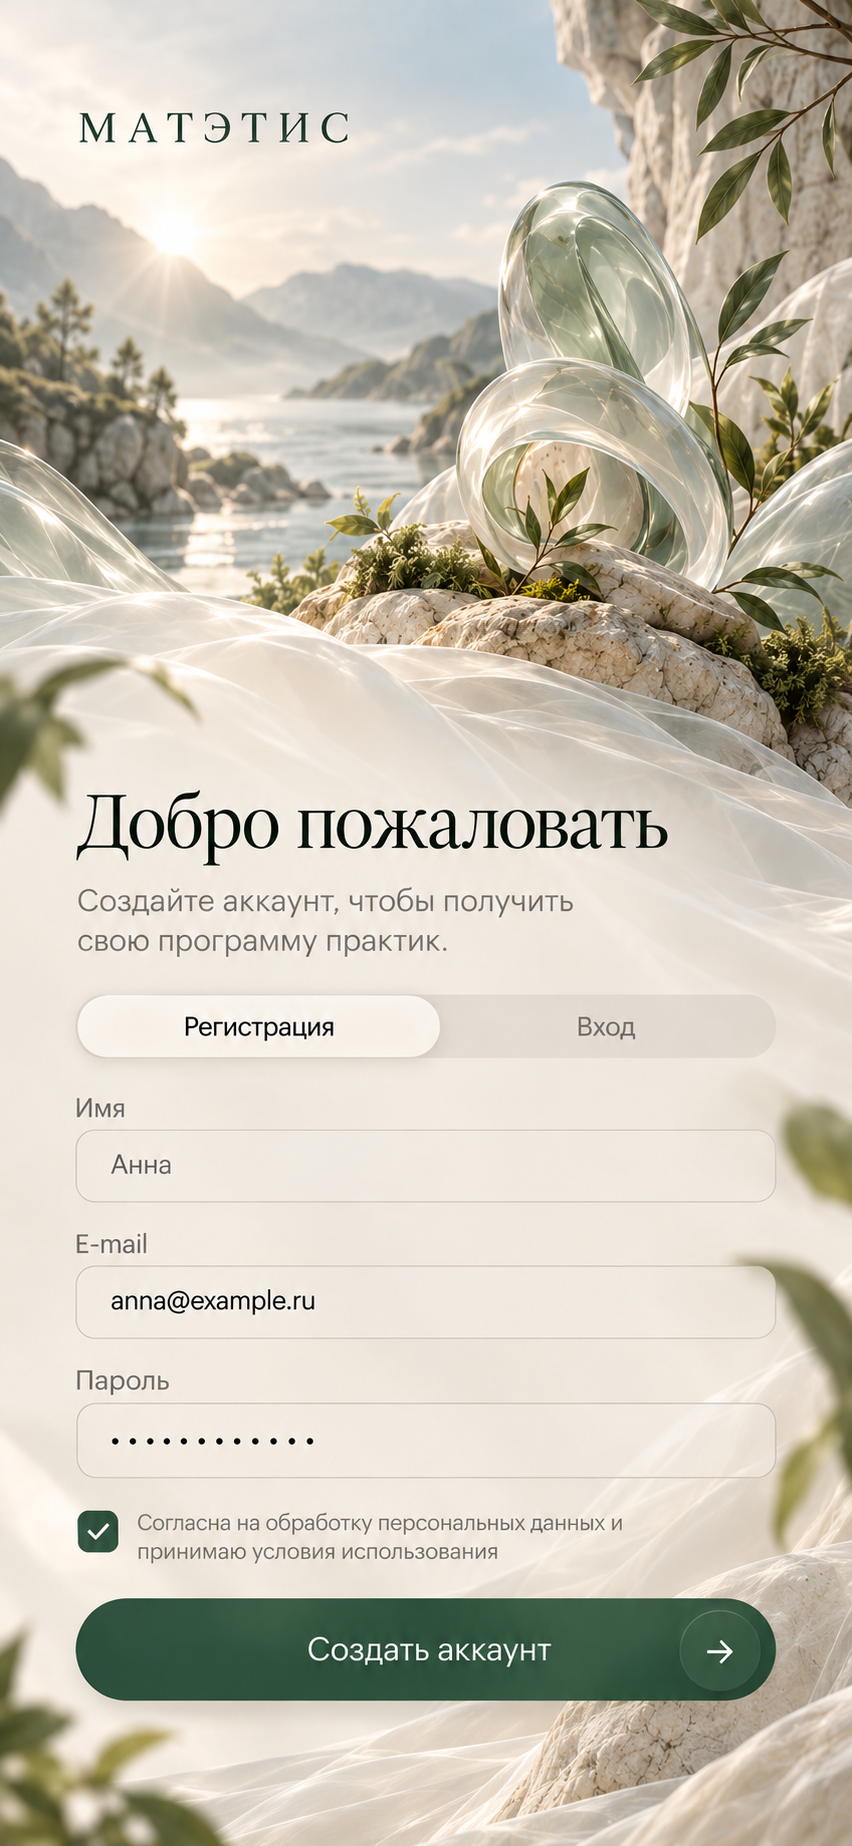
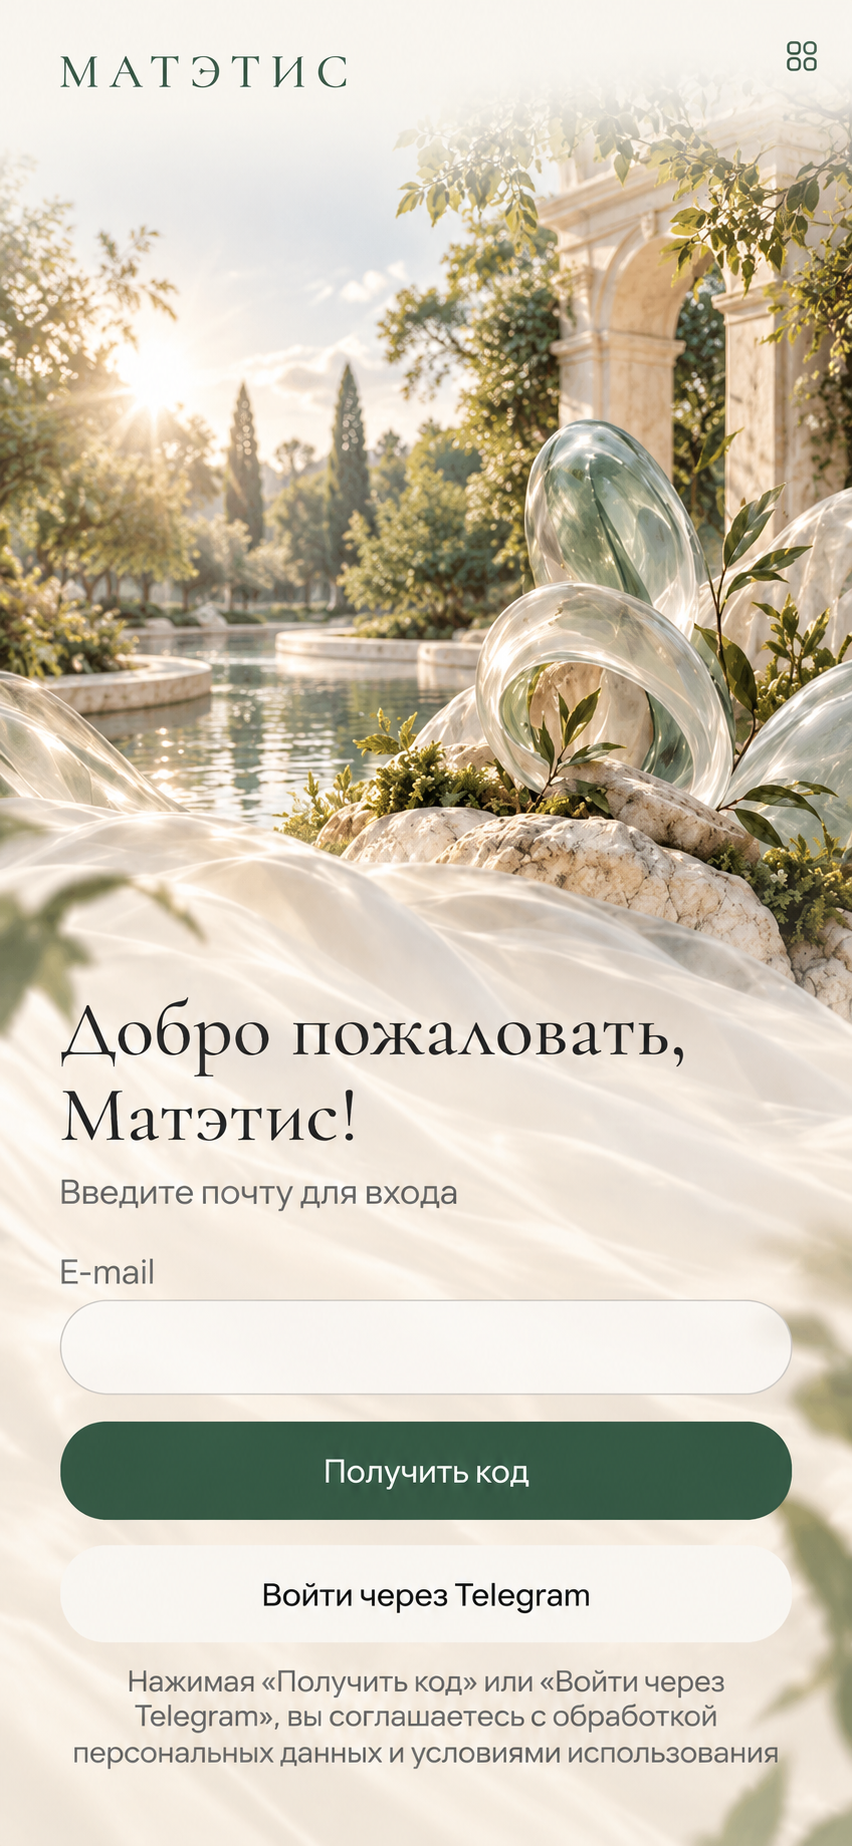
Новые фоны: вход, имя, дата рождения, «Срок подписки истёк»; иконка Telegram как в макете.
- Шаги «Имя» и «Дата рождения» — картинка на весь экран, текст в светлой середине, как в макетах.
- У даты рождения видна подпись «Дата рождения».
- Telegram — белый самолётик на синем круге, как Viber.

diff --git a/src/widgets/screen-layout/ui/screen-layout.tsx b/src/widgets/screen-layout/ui/screen-layout.tsx
@@ -17,12 +17,14 @@ export type ScreenBackground =
   | "02_3_onboard"
   | "02_4_onboard"
   | "03_1_test"
-  | "03_4_test"
+  | "03_name"
+  | "03_birth"
   | "03_result"
   | "04_earth_01_program"
   | "04_earth_02_navigator"
   | "04_earth_03_lizard"
   | "04_earth_04_practice"
+  | "04_expired"
   | "06_profile";
 
 /**
@@ -30,9 +32,17 @@ export type ScreenBackground =
  * верх заголовка. Выше этой точки — пейзаж, ниже — светлая часть, на которой лежит текст.
  */
 const heroTextLine: Partial<Record<ScreenBackground, number>> = {
-  "01_reg": 0.9,
+  "01_reg": 1.15,
   "02_1_onboard": 1.5,
-  "03_4_test": 1.2,
+};
+
+/**
+ * Экраны fullImage: на какой высоте картинки (в ширинах экрана) начинается текст — строка «Шаг N из M».
+ * Выше — арка, ниже текста картинка продолжается до кнопок.
+ */
+const fullImageTextTop: Partial<Record<ScreenBackground, number>> = {
+  "03_name": 0.92,
+  "03_birth": 0.79,
 };
 
 /**
@@ -80,6 +90,11 @@ type ScreenLayoutProps = {
   centered?: boolean;
   /** Шире поля по бокам: по краям картинки графика (листья), на ней текст плохо читается. */
   narrow?: boolean;
+  /**
+   * Картинка на весь экран (hero), как в макетах шагов «Имя» и «Дата рождения»: текст — в светлой середине
+   * картинки, кнопки — внизу поверх неё. Без fullImage картинка только над текстом.
+   */
+  fullImage?: boolean;
   /** Плотнее: подзаголовок 15 px и меньше промежутки. Для экранов с длинной формой. */
   compact?: boolean;
   /** Правая часть строки с логотипом: например, «Пропустить». */
@@ -164,6 +179,7 @@ export function ScreenLayout({
   compact = false,
   centered = false,
   narrow = false,
+  fullImage = false,
   headerAction,
   haze = false,
   textGlow = false,
@@ -209,7 +225,25 @@ export function ScreenLayout({
         />
       )}
 
-      {variant === "hero" ? (
+      {variant === "hero" && fullImage ? (
+        <>
+          {background && (
+            <div
+              aria-hidden
+              className="pointer-events-none fixed inset-y-0 left-1/2 -z-10 w-full max-w-[440px] -translate-x-1/2 bg-background bg-cover bg-top"
+              style={{ backgroundImage: [topFade(110), imageUrl(background)].join(", ") }}
+            />
+          )}
+          {header}
+          {/* Отступ до текста: верх текста ложится на ту же точку картинки, что в макете. */}
+          <div
+            aria-hidden
+            style={{
+              height: `max(24px, calc(${screenWidth} * ${(background && fullImageTextTop[background]) ?? 0.8} - var(--safe-top) - var(--header-top) - var(--header-height)))`,
+            }}
+          />
+        </>
+      ) : variant === "hero" ? (
         // Верхняя часть растягивается и опускает текст к низу экрана.
         // Картинка привязана к заголовку: над ним — пейзаж, под ним — светлая часть.
         <div className="relative flex flex-1 flex-col">
@@ -253,7 +287,7 @@ export function ScreenLayout({
           "flex flex-col px-(--screen-gutter)",
           // Отступ под нижним меню добавляет раскладка вкладок, здесь — только 24 px.
           variant === "hero" || actions ? "pb-[calc(var(--safe-bottom)+var(--action-bottom))]" : "pb-6",
-          variant === "page" && "flex-1",
+          (variant === "page" || fullImage) && "flex-1",
         )}
       >
         <div className={cn("relative", centered && "text-center")}>
@@ -322,7 +356,7 @@ export function ScreenLayout({
         {afterHaze && <div className={cn("flex flex-col", compact ? "mt-4 gap-4" : "mt-6 gap-6")}>{afterHaze}</div>}
 
         {(actions || steps) && (
-          <div className={cn("flex flex-col gap-6", compact ? "pt-4" : "pt-6", variant === "page" && "mt-auto")}>
+          <div className={cn("flex flex-col gap-6", compact ? "pt-4" : "pt-6", (variant === "page" || fullImage) && "mt-auto")}>
             {steps && <StepDots count={steps.count} current={steps.current} />}
             {actions && <div className="flex gap-3">{actions}</div>}
           </div>

diff --git a/src/features/take-type-test/ui/type-test-flow.tsx b/src/features/take-type-test/ui/type-test-flow.tsx
@@ -178,7 +178,8 @@ export function TypeTestFlow({ test }: { test: TypeTest }) {
     return (
       <ScreenLayout
         variant="hero"
-        background="03_4_test"
+        background="03_name"
+        fullImage
         beforeTitle={<StepProgress current={step + 1} total={totalSteps} />}
         title="Как вас зовут?"
         actions={
@@ -207,7 +208,8 @@ export function TypeTestFlow({ test }: { test: TypeTest }) {
   return (
     <ScreenLayout
       variant="hero"
-      background="03_4_test"
+      background="03_birth"
+      fullImage
       beforeTitle={<StepProgress current={totalSteps} total={totalSteps} />}
       title="Укажите вашу дату рождения"
       actions={
@@ -220,30 +222,35 @@ export function TypeTestFlow({ test }: { test: TypeTest }) {
       }
     >
       {/* Календарь телефона. Пустое поле на iPhone ничего не показывает, поэтому подсказку рисуем сами. */}
-      <div className="relative">
-        <Input
-          type="date"
-          aria-label="Дата рождения"
-          min="1900-01-01"
-          max={today}
-          value={birthDate}
-          onChange={(event) => {
-            setError(null);
-            setBirthDate(event.target.value);
-          }}
-          className={cn(
-            "peer h-(--field-height) appearance-none rounded-2xl border-input bg-background/70 px-4 text-left type-body backdrop-blur-sm md:text-[17px]",
-            !birthDate && "text-transparent focus:text-foreground",
+      <div className="grid gap-1">
+        <label htmlFor="birth-date" className="type-secondary leading-tight text-muted-foreground">
+          Дата рождения
+        </label>
+        <div className="relative">
+          <Input
+            id="birth-date"
+            type="date"
+            min="1900-01-01"
+            max={today}
+            value={birthDate}
+            onChange={(event) => {
+              setError(null);
+              setBirthDate(event.target.value);
+            }}
+            className={cn(
+              "peer h-(--field-height) appearance-none rounded-2xl border-input bg-background/70 px-4 text-left type-body backdrop-blur-sm md:text-[17px]",
+              !birthDate && "text-transparent focus:text-foreground",
+            )}
+          />
+          {!birthDate && (
+            <span
+              aria-hidden
+              className="pointer-events-none absolute inset-y-0 left-4 flex items-center type-body text-muted-foreground/70 peer-focus:hidden"
+            >
+              ДД.ММ.ГГГГ
+            </span>
           )}
-        />
-        {!birthDate && (
-          <span
-            aria-hidden
-            className="pointer-events-none absolute inset-y-0 left-4 flex items-center type-body text-muted-foreground/70 peer-focus:hidden"
-          >
-            ДД.ММ.ГГГГ
-          </span>
-        )}
+        </div>
       </div>
       {error && (
         <p role="alert" className="-mt-3 type-secondary text-destructive">

diff --git a/src/features/contact-admin/ui/messenger-icons.tsx b/src/features/contact-admin/ui/messenger-icons.tsx
@@ -1,9 +1,11 @@
 // Знаки Telegram и Viber из набора Simple Icons (лицензия CC0). В Lucide знаков брендов нет.
+// Рисуются белым поверх цветного круга.
 
 export function TelegramIcon({ className }: { className?: string }) {
   return (
     <svg viewBox="0 0 24 24" aria-hidden className={className} fill="currentColor">
-      <path d="M11.944 0A12 12 0 0 0 0 12a12 12 0 0 0 12 12 12 12 0 0 0 12-12A12 12 0 0 0 12 0a12 12 0 0 0-.056 0zm4.962 7.224c.1-.002.321.023.465.14a.506.506 0 0 1 .171.325c.016.093.036.306.02.472-.18 1.898-.962 6.502-1.36 8.627-.168.9-.499 1.201-.82 1.23-.696.065-1.225-.46-1.9-.902-1.056-.693-1.653-1.124-2.678-1.8-1.185-.78-.417-1.21.258-1.91.177-.184 3.247-2.977 3.307-3.23.007-.032.014-.15-.056-.212s-.174-.041-.249-.024c-.106.024-1.793 1.14-5.061 3.345-.48.33-.913.49-1.302.48-.428-.008-1.252-.241-1.865-.44-.752-.245-1.349-.374-1.297-.789.027-.216.325-.437.893-.663 3.498-1.524 5.83-2.529 6.998-3.014 3.332-1.386 4.025-1.627 4.476-1.635z" />
+      {/* Только самолётик: круг под ним рисует кнопка, как у Viber. */}
+      <path d="M16.906 7.224c.1-.002.321.023.465.14a.506.506 0 0 1 .171.325c.016.093.036.306.02.472-.18 1.898-.962 6.502-1.36 8.627-.168.9-.499 1.201-.82 1.23-.696.065-1.225-.46-1.9-.902-1.056-.693-1.653-1.124-2.678-1.8-1.185-.78-.417-1.21.258-1.91.177-.184 3.247-2.977 3.307-3.23.007-.032.014-.15-.056-.212s-.174-.041-.249-.024c-.106.024-1.793 1.14-5.061 3.345-.48.33-.913.49-1.302.48-.428-.008-1.252-.241-1.865-.44-.752-.245-1.349-.374-1.297-.789.027-.216.325-.437.893-.663 3.498-1.524 5.83-2.529 6.998-3.014 3.332-1.386 4.025-1.627 4.476-1.635z" />
     </svg>
   );
 }

diff --git a/src/widgets/access-gate/ui/access-gate.tsx b/src/widgets/access-gate/ui/access-gate.tsx
@@ -40,7 +40,7 @@ export function AccessGate({ children }: { children: ReactNode }) {
 
   const title = tabTitles.find(([href]) => pathname.startsWith(href))?.[1] ?? "Программа";
   return (
-    <ScreenLayout variant="page" background="03_result" title={title}>
+    <ScreenLayout variant="page" background="04_expired" title={title}>
       <GlassCard aria-labelledby="access-expired-title" className="space-y-2">
         <h2 id="access-expired-title" className="type-section text-foreground">
           Срок подписки истёк

diff --git a/src/features/contact-admin/ui/contact-admin.tsx b/src/features/contact-admin/ui/contact-admin.tsx
@@ -55,7 +55,9 @@ export function ContactAdminButtons({ access, purpose }: { access: MyAccess; pur
           rel="noreferrer"
           className="flex flex-col items-center gap-1 type-caption font-normal text-muted-foreground"
         >
-          <TelegramIcon className="size-14 text-[#26A5E4]" />
+          <span className="grid size-14 place-items-center rounded-full bg-[#229ED9] text-white">
+            <TelegramIcon className="size-14" />
+          </span>
           Telegram
         </a>
         <a
